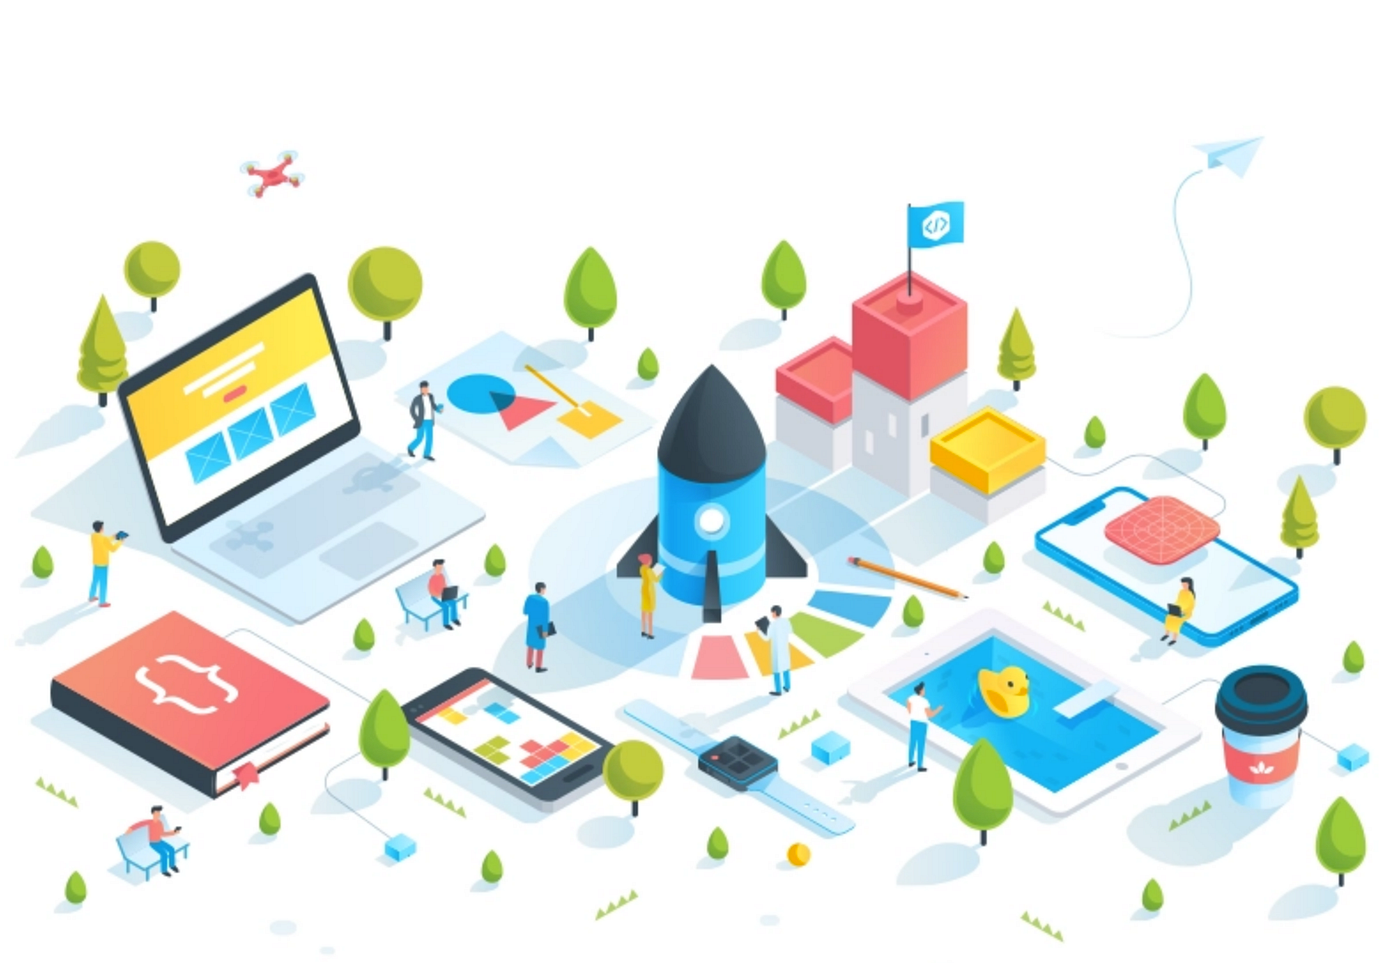
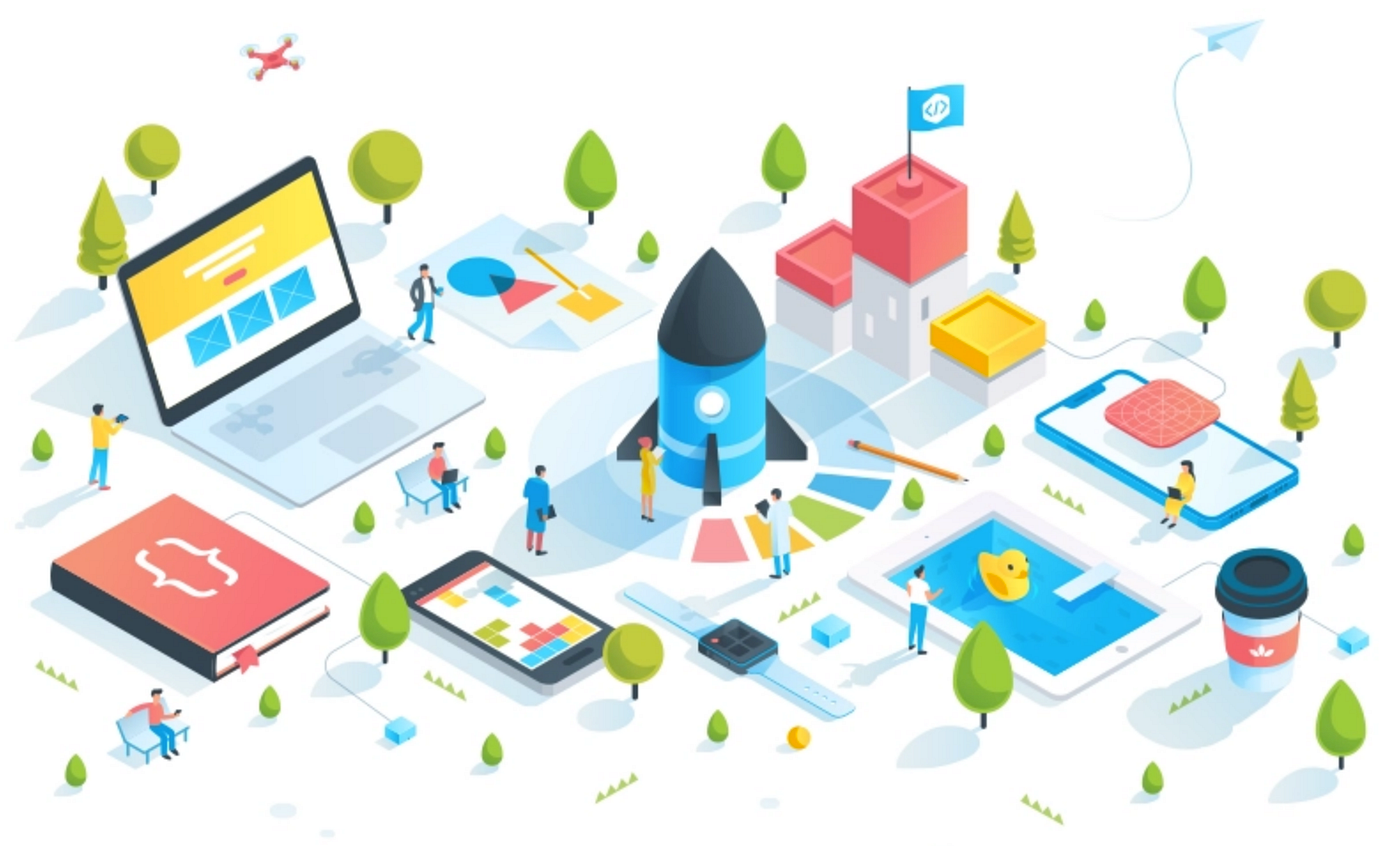
Inicio y Programa: docentes con emails en el home, links, portada ajustada
- Equipo docente del home ahora lista profesores y tutores con sus emails
- Programa arranca directo en Objetivos de aprendizaje (sin bloque de encabezado)
- Intro del home: 'programa' y 'lecturas' enlazan a sus paginas
- Portada recortada (menos margen blanco superior) y pegada al subtitulo

diff --git a/theme/udesa.scss b/theme/udesa.scss
@@ -67,11 +67,18 @@ img[alt="Open in Colab"] {
   border-left-color: $accent;
 }
 
-// Imagen de portada del home
+// Imagen de portada del home, pegada al subtitulo (margen casi nulo arriba).
+// Se scopea al home via :has() para no afectar el espaciado de otras paginas.
+#title-block-header:has(~ p .portada) {
+  margin-bottom: 0.15rem;
+}
+p:has(> .portada) {
+  margin: 0;
+}
 .portada {
   display: block;
   width: 100%;
   max-width: 760px;
   height: auto;
-  margin: 1.2rem auto 2rem;
+  margin: 0 auto 1.5rem;
 }